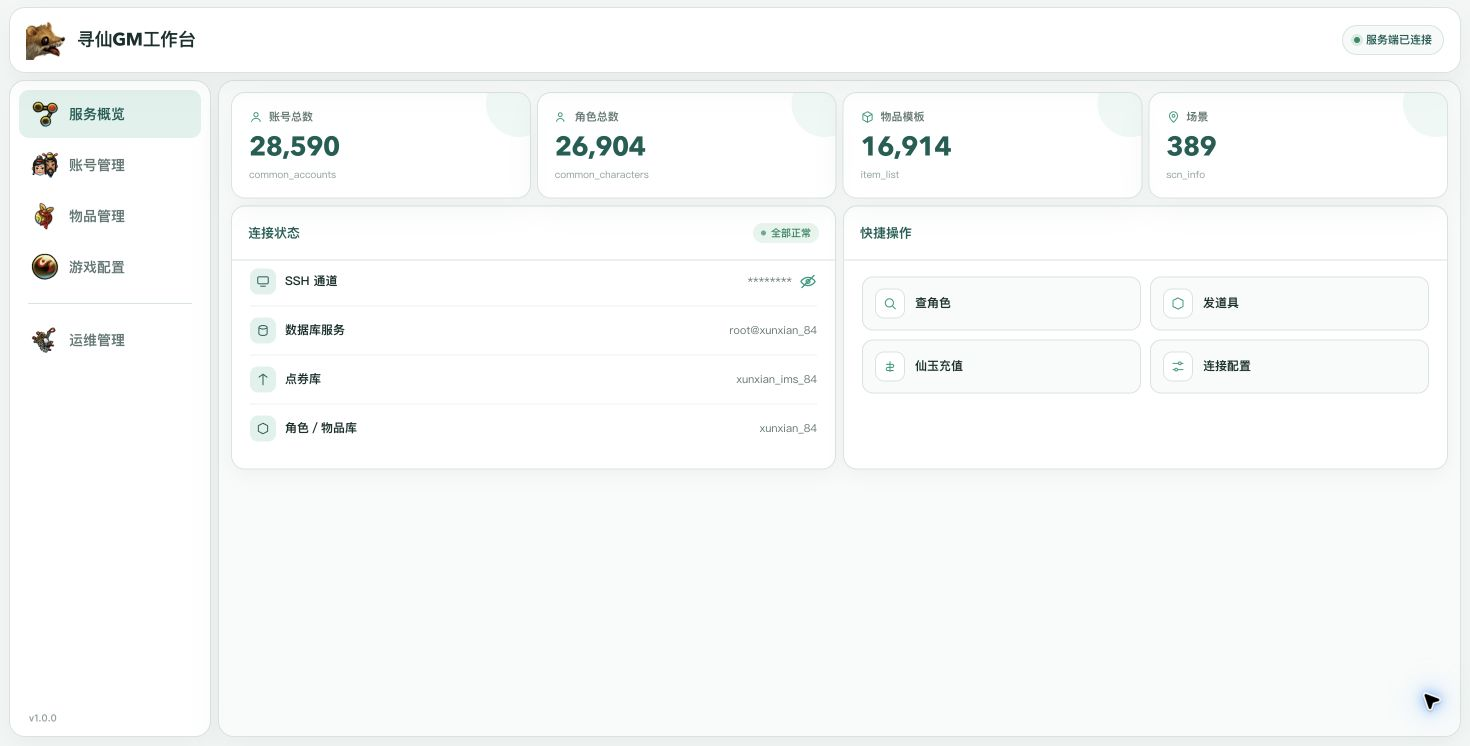
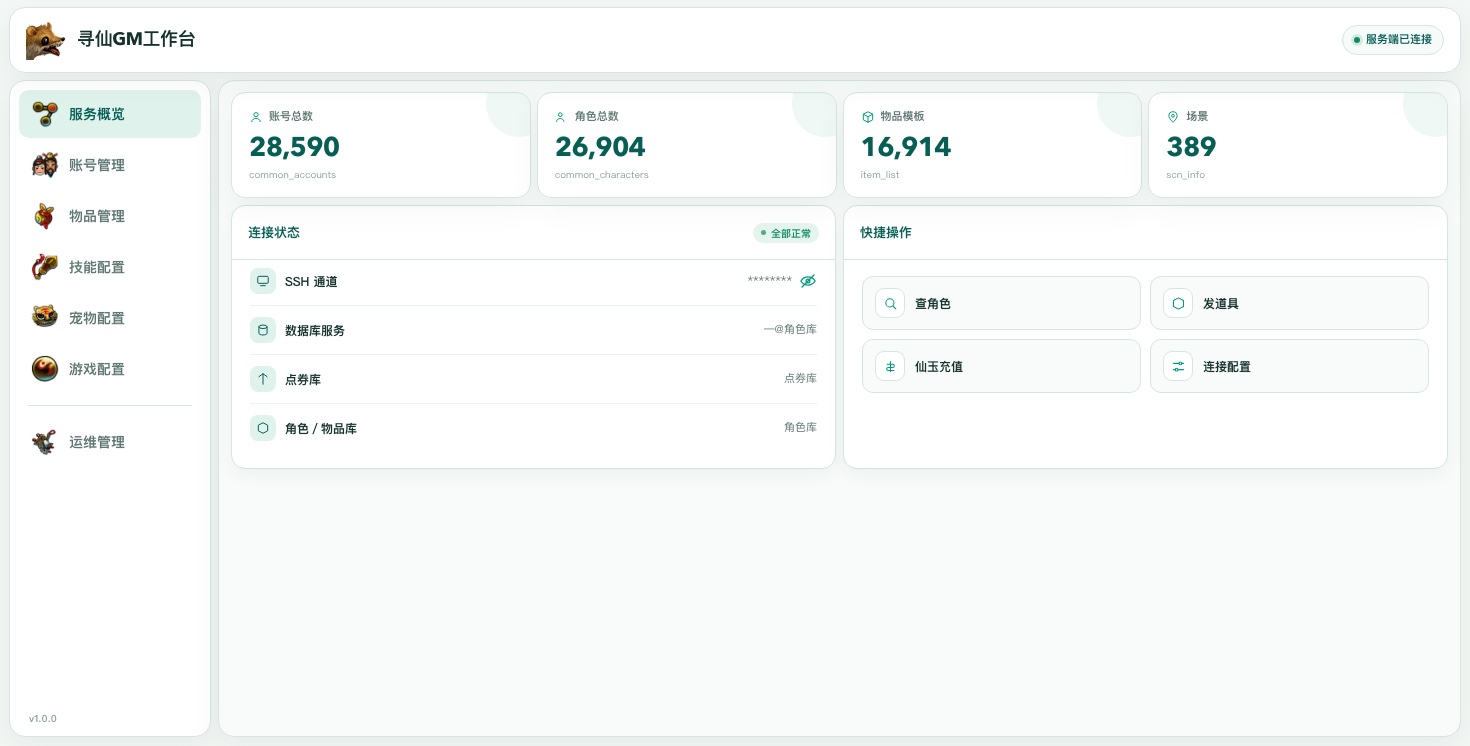
Add screenshots for all workbench sections

diff --git a/README.md b/README.md
@@ -8,13 +8,29 @@
 
 ![工作台服务概览](doc/screenshots/dashboard.jpg)
 
+### 账号管理
+
+![账号管理](doc/screenshots/accounts.jpg)
+
 ### 物品管理
 
 ![物品管理与发放清单](doc/screenshots/items.jpg)
 
+### 技能配置
+
+![技能配置](doc/screenshots/skills.jpg)
+
+### 宠物配置
+
+![宠物配置](doc/screenshots/pets.jpg)
+
+### 游戏配置
+
+![游戏配置](doc/screenshots/game-config.jpg)
+
 ### 运维管理
 
-![服务端控制](doc/screenshots/operations.jpg)
+![运维管理与服务控制](doc/screenshots/operations.jpg)
 
 ## 功能一览
 
